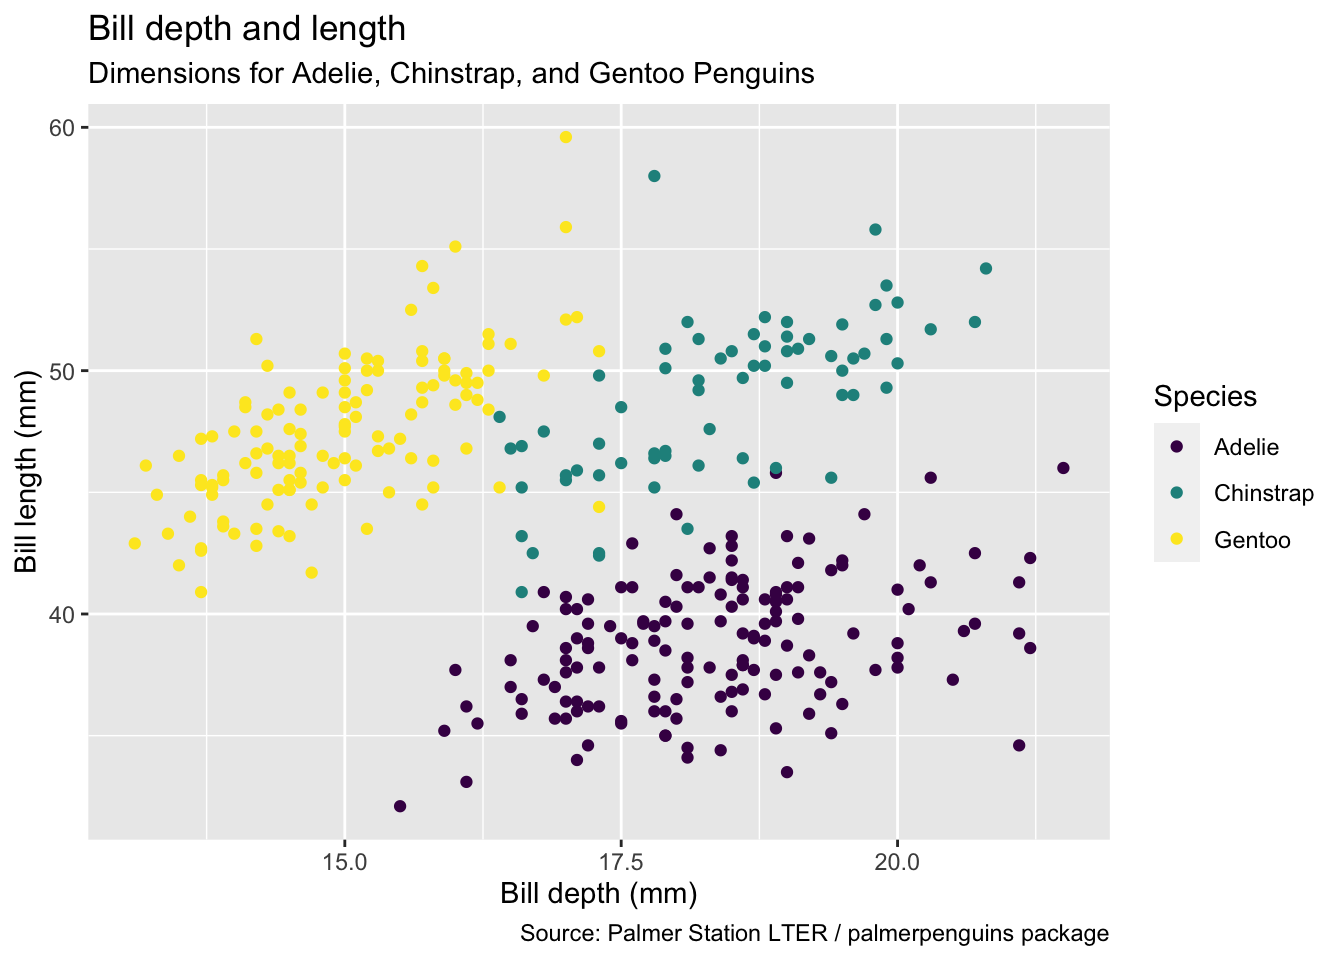
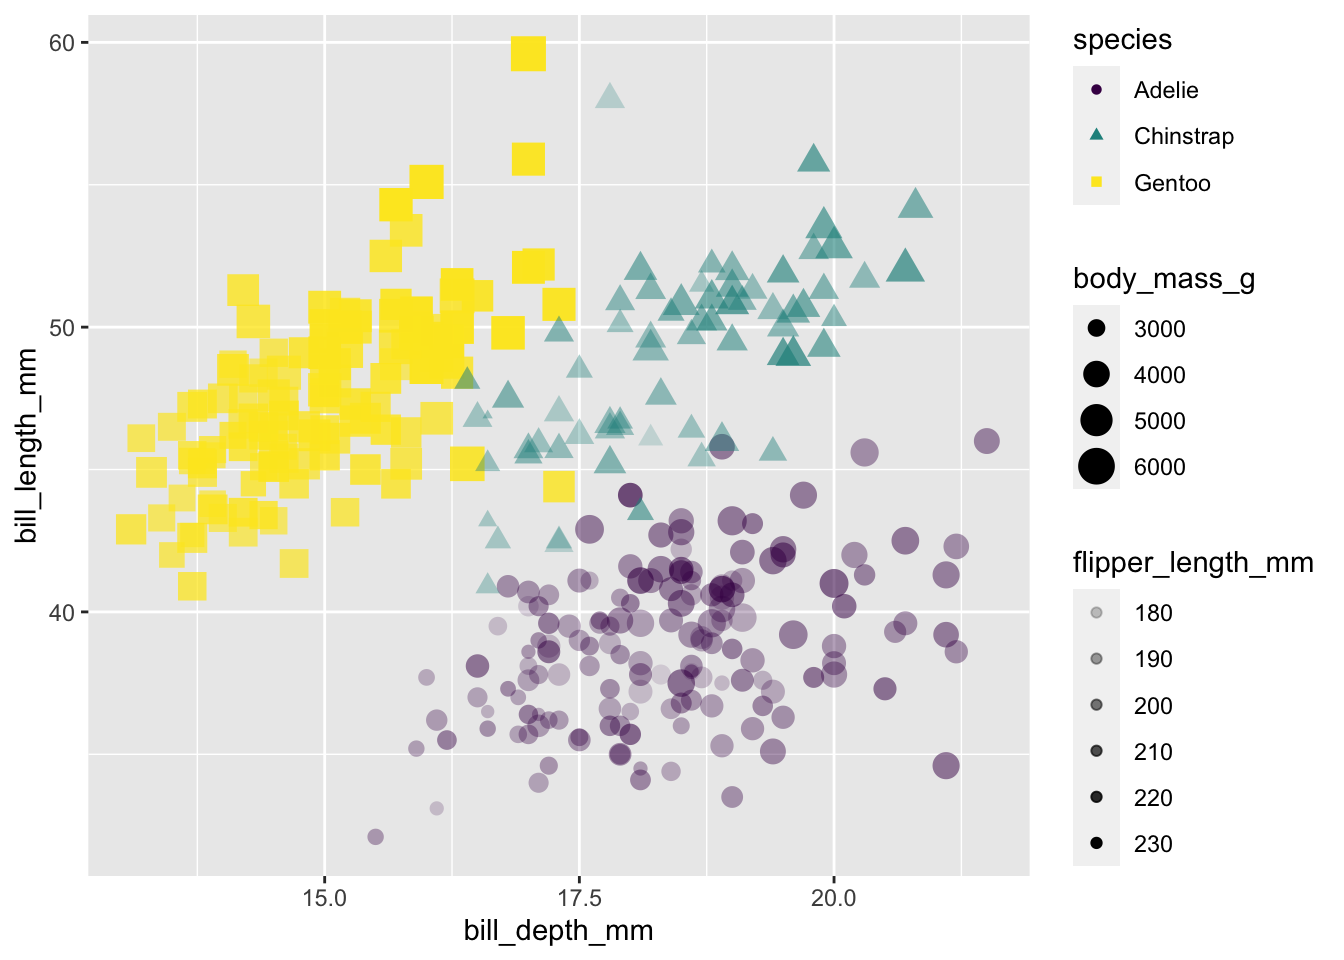
Palmer Penguins 2

diff --git a/content/post/2022-02-09-palmer-penguins/index.html b/content/post/2022-02-09-palmer-penguins/index.html
@@ -1,0 +1,120 @@
+---
+title: Palmer Penguins
+author: R package build
+date: '2022-02-09'
+slug: palmer-penguins
+categories: []
+tags: []
+---
+
+<script src="{{< blogdown/postref >}}index_files/header-attrs/header-attrs.js"></script>
+
+
+<div id="palmer-penguins" class="section level2">
+<h2>Palmer Penguins</h2>
+<pre class="r"><code>library(tidyverse)
+library(palmerpenguins)
+glimpse(penguins)</code></pre>
+<pre><code>## Rows: 344
+## Columns: 8
+## $ species           &lt;fct&gt; Adelie, Adelie, Adelie, Adelie, Adelie, Adelie, Adel…
+## $ island            &lt;fct&gt; Torgersen, Torgersen, Torgersen, Torgersen, Torgerse…
+## $ bill_length_mm    &lt;dbl&gt; 39.1, 39.5, 40.3, NA, 36.7, 39.3, 38.9, 39.2, 34.1, …
+## $ bill_depth_mm     &lt;dbl&gt; 18.7, 17.4, 18.0, NA, 19.3, 20.6, 17.8, 19.6, 18.1, …
+## $ flipper_length_mm &lt;int&gt; 181, 186, 195, NA, 193, 190, 181, 195, 193, 190, 186…
+## $ body_mass_g       &lt;int&gt; 3750, 3800, 3250, NA, 3450, 3650, 3625, 4675, 3475, …
+## $ sex               &lt;fct&gt; male, female, female, NA, female, male, female, male…
+## $ year              &lt;int&gt; 2007, 2007, 2007, 2007, 2007, 2007, 2007, 2007, 2007…</code></pre>
+</div>
+<div id="scatter-plot" class="section level2">
+<h2>Scatter Plot</h2>
+<pre class="r"><code>ggplot(data = penguins, 
+       mapping = aes(x = bill_depth_mm, y = bill_length_mm,
+                     colour = species)) +
+  geom_point() +
+  labs(title = &quot;Bill depth and length&quot;,
+       subtitle = &quot;Dimensions for Adelie, Chinstrap, and Gentoo Penguins&quot;,
+       x = &quot;Bill depth (mm)&quot;, y = &quot;Bill length (mm)&quot;,
+       colour = &quot;Species&quot;)</code></pre>
+<pre><code>## Warning: Removed 2 rows containing missing values (geom_point).</code></pre>
+<p><img src="{{< blogdown/postref >}}index_files/figure-html/unnamed-chunk-2-1.png" width="672" /></p>
+</div>
+<div id="open-intro" class="section level2">
+<h2>Open Intro</h2>
+<pre class="r"><code>library(openintro)</code></pre>
+<pre><code>## Loading required package: airports</code></pre>
+<pre><code>## Loading required package: cherryblossom</code></pre>
+<pre><code>## Loading required package: usdata</code></pre>
+<pre class="r"><code>glimpse(loans_full_schema)</code></pre>
+<pre><code>## Rows: 10,000
+## Columns: 55
+## $ emp_title                        &lt;chr&gt; &quot;global config engineer &quot;, &quot;warehouse…
+## $ emp_length                       &lt;dbl&gt; 3, 10, 3, 1, 10, NA, 10, 10, 10, 3, 1…
+## $ state                            &lt;fct&gt; NJ, HI, WI, PA, CA, KY, MI, AZ, NV, I…
+## $ homeownership                    &lt;fct&gt; MORTGAGE, RENT, RENT, RENT, RENT, OWN…
+## $ annual_income                    &lt;dbl&gt; 90000, 40000, 40000, 30000, 35000, 34…
+## $ verified_income                  &lt;fct&gt; Verified, Not Verified, Source Verifi…
+## $ debt_to_income                   &lt;dbl&gt; 18.01, 5.04, 21.15, 10.16, 57.96, 6.4…
+## $ annual_income_joint              &lt;dbl&gt; NA, NA, NA, NA, 57000, NA, 155000, NA…
+## $ verification_income_joint        &lt;fct&gt; , , , , Verified, , Not Verified, , ,…
+## $ debt_to_income_joint             &lt;dbl&gt; NA, NA, NA, NA, 37.66, NA, 13.12, NA,…
+## $ delinq_2y                        &lt;int&gt; 0, 0, 0, 0, 0, 1, 0, 1, 1, 0, 0, 0, 0…
+## $ months_since_last_delinq         &lt;int&gt; 38, NA, 28, NA, NA, 3, NA, 19, 18, NA…
+## $ earliest_credit_line             &lt;dbl&gt; 2001, 1996, 2006, 2007, 2008, 1990, 2…
+## $ inquiries_last_12m               &lt;int&gt; 6, 1, 4, 0, 7, 6, 1, 1, 3, 0, 4, 4, 8…
+## $ total_credit_lines               &lt;int&gt; 28, 30, 31, 4, 22, 32, 12, 30, 35, 9,…
+## $ open_credit_lines                &lt;int&gt; 10, 14, 10, 4, 16, 12, 10, 15, 21, 6,…
+## $ total_credit_limit               &lt;int&gt; 70795, 28800, 24193, 25400, 69839, 42…
+## $ total_credit_utilized            &lt;int&gt; 38767, 4321, 16000, 4997, 52722, 3898…
+## $ num_collections_last_12m         &lt;int&gt; 0, 0, 0, 0, 0, 0, 0, 0, 0, 0, 0, 0, 0…
+## $ num_historical_failed_to_pay     &lt;int&gt; 0, 1, 0, 1, 0, 0, 0, 0, 0, 0, 1, 0, 0…
+## $ months_since_90d_late            &lt;int&gt; 38, NA, 28, NA, NA, 60, NA, 71, 18, N…
+## $ current_accounts_delinq          &lt;int&gt; 0, 0, 0, 0, 0, 0, 0, 0, 0, 0, 0, 0, 0…
+## $ total_collection_amount_ever     &lt;int&gt; 1250, 0, 432, 0, 0, 0, 0, 0, 0, 0, 0,…
+## $ current_installment_accounts     &lt;int&gt; 2, 0, 1, 1, 1, 0, 2, 2, 6, 1, 2, 1, 2…
+## $ accounts_opened_24m              &lt;int&gt; 5, 11, 13, 1, 6, 2, 1, 4, 10, 5, 6, 7…
+## $ months_since_last_credit_inquiry &lt;int&gt; 5, 8, 7, 15, 4, 5, 9, 7, 4, 17, 3, 4,…
+## $ num_satisfactory_accounts        &lt;int&gt; 10, 14, 10, 4, 16, 12, 10, 15, 21, 6,…
+## $ num_accounts_120d_past_due       &lt;int&gt; 0, 0, 0, 0, 0, 0, 0, NA, 0, 0, 0, 0, …
+## $ num_accounts_30d_past_due        &lt;int&gt; 0, 0, 0, 0, 0, 0, 0, 0, 0, 0, 0, 0, 0…
+## $ num_active_debit_accounts        &lt;int&gt; 2, 3, 3, 2, 10, 1, 3, 5, 11, 3, 2, 2,…
+## $ total_debit_limit                &lt;int&gt; 11100, 16500, 4300, 19400, 32700, 272…
+## $ num_total_cc_accounts            &lt;int&gt; 14, 24, 14, 3, 20, 27, 8, 16, 19, 7, …
+## $ num_open_cc_accounts             &lt;int&gt; 8, 14, 8, 3, 15, 12, 7, 12, 14, 5, 8,…
+## $ num_cc_carrying_balance          &lt;int&gt; 6, 4, 6, 2, 13, 5, 6, 10, 14, 3, 5, 3…
+## $ num_mort_accounts                &lt;int&gt; 1, 0, 0, 0, 0, 3, 2, 7, 2, 0, 2, 3, 3…
+## $ account_never_delinq_percent     &lt;dbl&gt; 92.9, 100.0, 93.5, 100.0, 100.0, 78.1…
+## $ tax_liens                        &lt;int&gt; 0, 0, 0, 1, 0, 0, 0, 0, 0, 0, 0, 0, 0…
+## $ public_record_bankrupt           &lt;int&gt; 0, 1, 0, 0, 0, 0, 0, 0, 0, 0, 1, 0, 0…
+## $ loan_purpose                     &lt;fct&gt; moving, debt_consolidation, other, de…
+## $ application_type                 &lt;fct&gt; individual, individual, individual, i…
+## $ loan_amount                      &lt;int&gt; 28000, 5000, 2000, 21600, 23000, 5000…
+## $ term                             &lt;dbl&gt; 60, 36, 36, 36, 36, 36, 60, 60, 36, 3…
+## $ interest_rate                    &lt;dbl&gt; 14.07, 12.61, 17.09, 6.72, 14.07, 6.7…
+## $ installment                      &lt;dbl&gt; 652.53, 167.54, 71.40, 664.19, 786.87…
+## $ grade                            &lt;fct&gt; C, C, D, A, C, A, C, B, C, A, C, B, C…
+## $ sub_grade                        &lt;fct&gt; C3, C1, D1, A3, C3, A3, C2, B5, C2, A…
+## $ issue_month                      &lt;fct&gt; Mar-2018, Feb-2018, Feb-2018, Jan-201…
+## $ loan_status                      &lt;fct&gt; Current, Current, Current, Current, C…
+## $ initial_listing_status           &lt;fct&gt; whole, whole, fractional, whole, whol…
+## $ disbursement_method              &lt;fct&gt; Cash, Cash, Cash, Cash, Cash, Cash, C…
+## $ balance                          &lt;dbl&gt; 27015.86, 4651.37, 1824.63, 18853.26,…
+## $ paid_total                       &lt;dbl&gt; 1999.330, 499.120, 281.800, 3312.890,…
+## $ paid_principal                   &lt;dbl&gt; 984.14, 348.63, 175.37, 2746.74, 1569…
+## $ paid_interest                    &lt;dbl&gt; 1015.19, 150.49, 106.43, 566.15, 754.…
+## $ paid_late_fees                   &lt;dbl&gt; 0, 0, 0, 0, 0, 0, 0, 0, 0, 0, 0, 0, 0…</code></pre>
+<pre class="r"><code>loans &lt;- loans_full_schema %&gt;%
+  select(loan_amount, interest_rate, term, grade, 
+         state, annual_income, homeownership, debt_to_income)
+glimpse(loans)</code></pre>
+<pre><code>## Rows: 10,000
+## Columns: 8
+## $ loan_amount    &lt;int&gt; 28000, 5000, 2000, 21600, 23000, 5000, 24000, 20000, 20…
+## $ interest_rate  &lt;dbl&gt; 14.07, 12.61, 17.09, 6.72, 14.07, 6.72, 13.59, 11.99, 1…
+## $ term           &lt;dbl&gt; 60, 36, 36, 36, 36, 36, 60, 60, 36, 36, 60, 60, 36, 60,…
+## $ grade          &lt;fct&gt; C, C, D, A, C, A, C, B, C, A, C, B, C, B, D, D, D, F, E…
+## $ state          &lt;fct&gt; NJ, HI, WI, PA, CA, KY, MI, AZ, NV, IL, IL, FL, SC, CO,…
+## $ annual_income  &lt;dbl&gt; 90000, 40000, 40000, 30000, 35000, 34000, 35000, 110000…
+## $ homeownership  &lt;fct&gt; MORTGAGE, RENT, RENT, RENT, RENT, OWN, MORTGAGE, MORTGA…
+## $ debt_to_income &lt;dbl&gt; 18.01, 5.04, 21.15, 10.16, 57.96, 6.46, 23.66, 16.19, 3…</code></pre>
+</div>

diff --git a/content/post/2022-02-09-palmer-penguins-visualizations/index.html b/content/post/2022-02-09-palmer-penguins-visualizations/index.html
@@ -16,8 +16,16 @@ tags:
 <h1>Palmer Penguins</h1>
 <p>Measurements for penguin species, island in <strong>Palmer Archipelago</strong>, size (flipper length, body mass, bill dimensions), and sex.
 ## Call Libraries</p>
-<pre class="r"><code>library(tidyverse)
-library(palmerpenguins)</code></pre>
+<pre class="r"><code>library(tidyverse)</code></pre>
+<pre><code>## ── Attaching packages ─────────────────────────────────────── tidyverse 1.3.1 ──</code></pre>
+<pre><code>## ✓ ggplot2 3.3.5     ✓ purrr   0.3.4
+## ✓ tibble  3.1.6     ✓ dplyr   1.0.7
+## ✓ tidyr   1.1.4     ✓ stringr 1.4.0
+## ✓ readr   2.1.2     ✓ forcats 0.5.1</code></pre>
+<pre><code>## ── Conflicts ────────────────────────────────────────── tidyverse_conflicts() ──
+## x dplyr::filter() masks stats::filter()
+## x dplyr::lag()    masks stats::lag()</code></pre>
+<pre class="r"><code>library(palmerpenguins)</code></pre>
 <div id="describe-the-data" class="section level2">
 <h2>Describe the Data</h2>
 <pre class="r"><code>glimpse(penguins)</code></pre>
@@ -46,7 +54,7 @@ library(palmerpenguins)</code></pre>
        colour = &quot;Species&quot;,
        caption = &quot;Source: Palmer Station LTER / palmerpenguins package&quot;) +
   scale_colour_viridis_d()</code></pre>
-<p><img src="{{< blogdown/postref >}}index_files/figure-html/unnamed-chunk-3-1.png" width="672" /></p>
+<p><img src="{{< blogdown/postref >}}index_files/figure-html/unnamed-chunk-2-1.png" width="672" /></p>
 </div>
 <div id="scatter-plot-enhanced" class="section level2">
 <h2>Scatter Plot Enhanced</h2>
@@ -60,7 +68,7 @@ library(palmerpenguins)</code></pre>
   geom_point() +
   scale_colour_viridis_d()</code></pre>
 <pre><code>## Warning: Removed 2 rows containing missing values (geom_point).</code></pre>
-<p><img src="{{< blogdown/postref >}}index_files/figure-html/unnamed-chunk-4-1.png" width="672" /></p>
+<p><img src="{{< blogdown/postref >}}index_files/figure-html/unnamed-chunk-3-1.png" width="672" /></p>
 </div>
 <div id="scatter-plot-with-facet-grid" class="section level2">
 <h2>Scatter Plot with Facet Grid</h2>
@@ -68,6 +76,6 @@ library(palmerpenguins)</code></pre>
   geom_point() +
   facet_grid(species ~ island)</code></pre>
 <pre><code>## Warning: Removed 2 rows containing missing values (geom_point).</code></pre>
-<p><img src="{{< blogdown/postref >}}index_files/figure-html/unnamed-chunk-5-1.png" width="672" /></p>
+<p><img src="{{< blogdown/postref >}}index_files/figure-html/unnamed-chunk-4-1.png" width="672" /></p>
 </div>
 </div>

diff --git a/content/post/2022-02-09-palmer-penguins/index_files/header-attrs/header-attrs.js b/content/post/2022-02-09-palmer-penguins/index_files/header-attrs/header-attrs.js
@@ -1,0 +1,12 @@
+// Pandoc 2.9 adds attributes on both header and div. We remove the former (to
+// be compatible with the behavior of Pandoc < 2.8).
+document.addEventListener('DOMContentLoaded', function(e) {
+  var hs = document.querySelectorAll("div.section[class*='level'] > :first-child");
+  var i, h, a;
+  for (i = 0; i < hs.length; i++) {
+    h = hs[i];
+    if (!/^h[1-6]$/i.test(h.tagName)) continue;  // it should be a header h1-h6
+    a = h.attributes;
+    while (a.length > 0) h.removeAttribute(a[0].name);
+  }
+});
